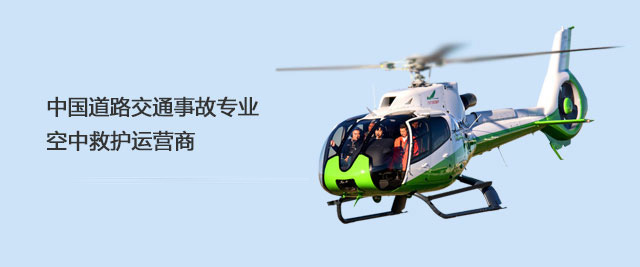
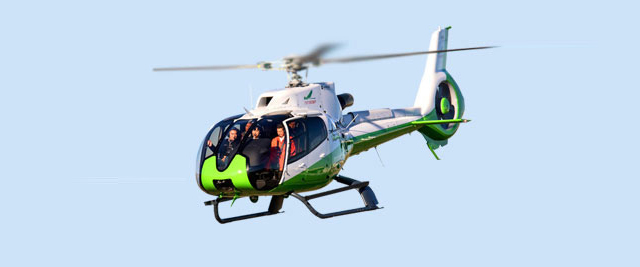
修改banner

Changed region(s): [[0.0625, 0.0899, 0.9375, 0.839], [0.9375, 0.1498, 0.9688, 0.1798]]

diff --git a/pages/index/index.js b/pages/index/index.js
@@ -7,7 +7,7 @@ Page({
   data: {
     banner: [
       {
-        url: '../../images/jiuxing_banner.jpg',
+        url: 'http://hems999.com/mobile/images/jiuxingbannerm.jpg',
         link: '../about/jiuxing'
       },
       {
